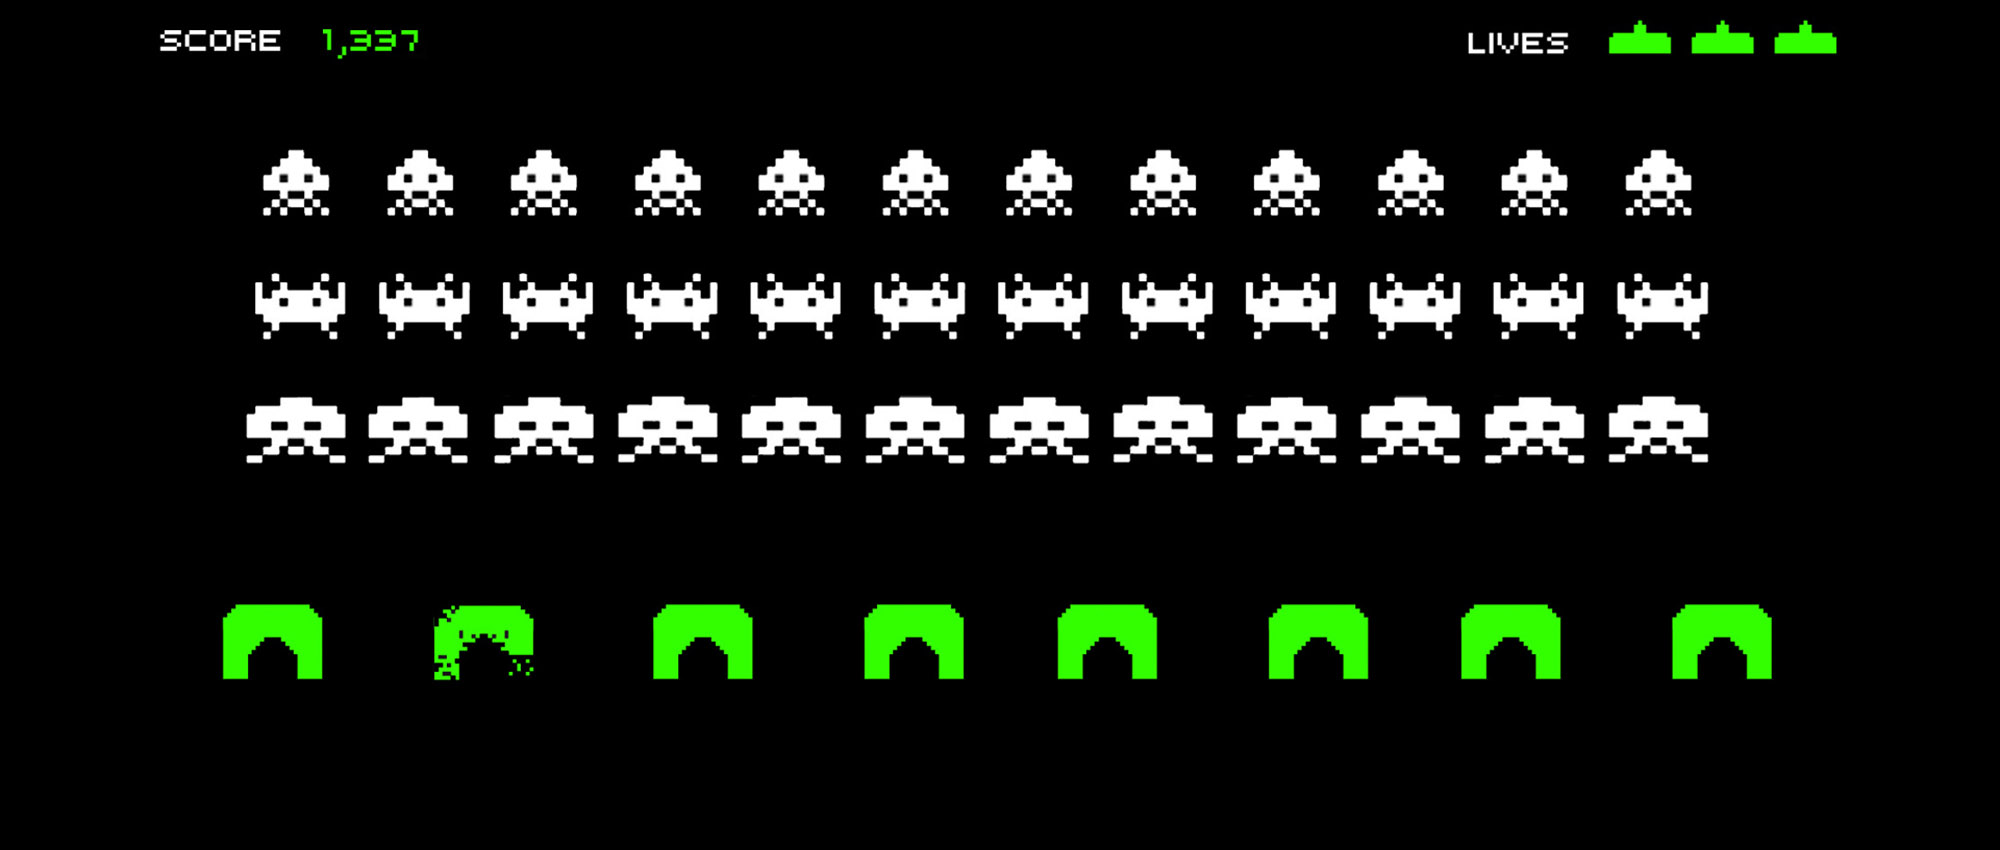
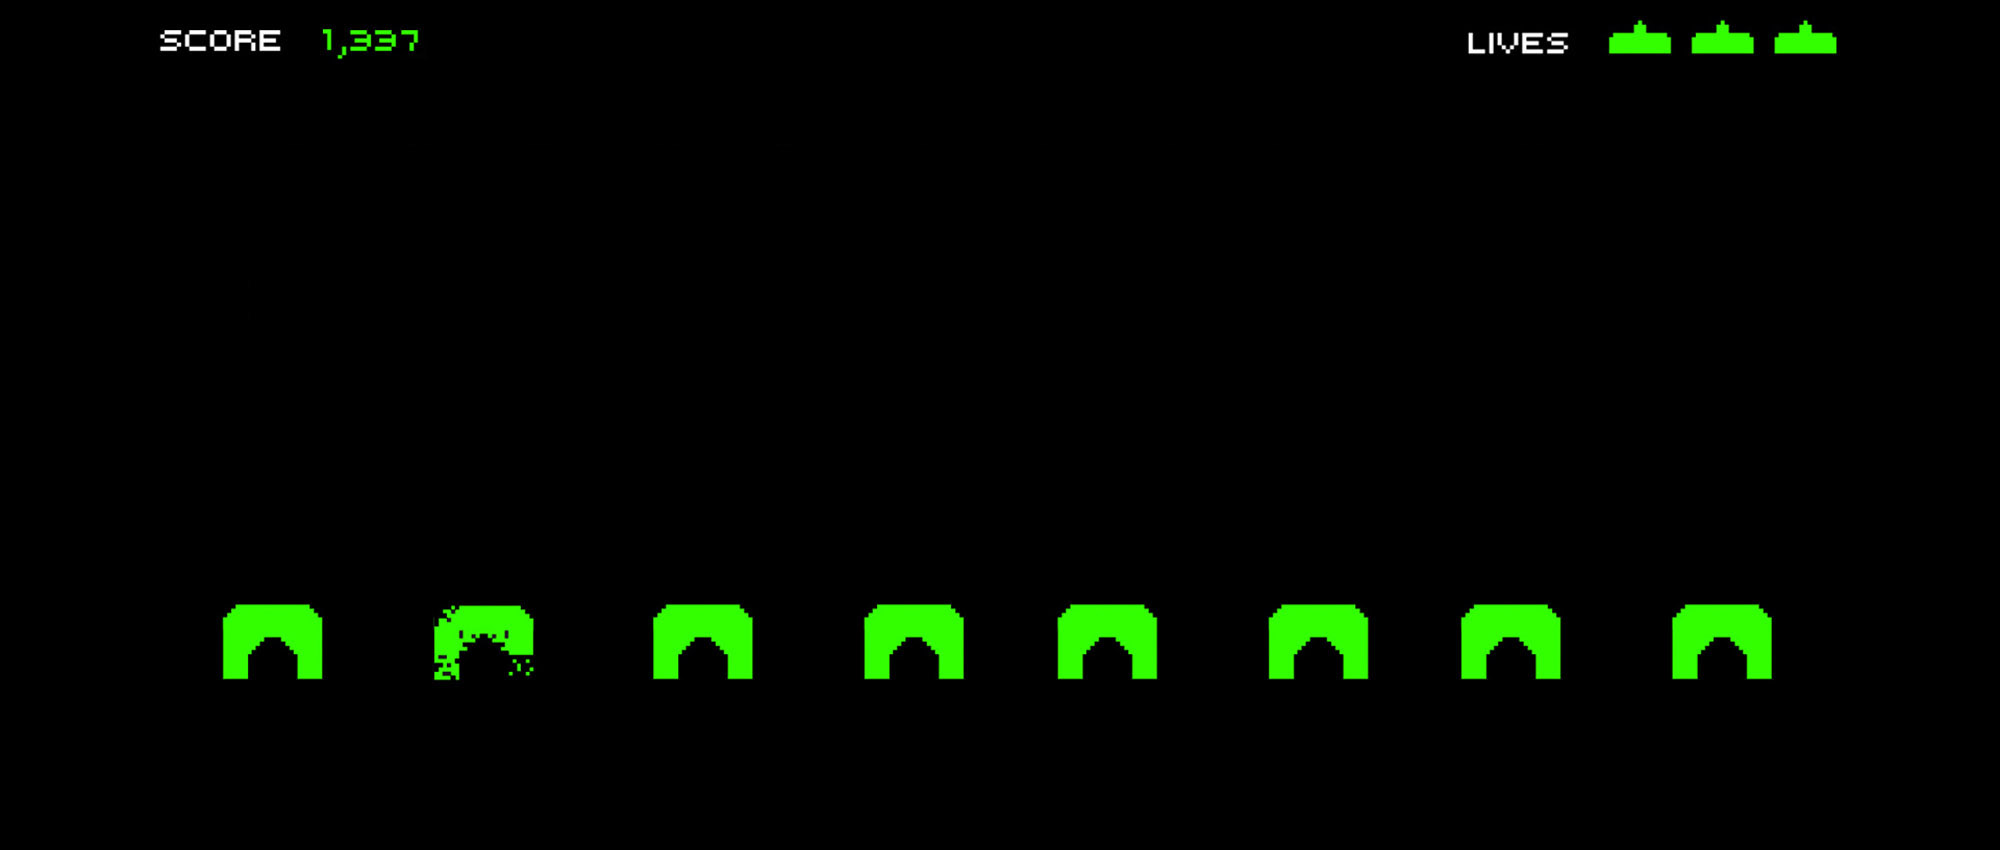
SPACE INVADING!

Changed region(s): [[0.124, 0.4588, 0.868, 0.5506], [0.124, 0.1835, 0.868, 0.2753], [0.124, 0.3365, 0.868, 0.3976]]

diff --git a/style/style.css b/style/style.css
@@ -162,6 +162,7 @@ h5 {
   background-size: auto;
   margin: 0;
   padding: 15px 0;
+  overflow: hidden;
 }
 
 .motherShip {
@@ -171,7 +172,7 @@ h5 {
   height: 70px;
   animation: movin 3s infinite;
   animation-direction: alternate;
-  animation-timing-function: ease-in-out
+  animation-timing-function: ease-in-out;
 }
 
 @keyframes movin {
@@ -179,8 +180,59 @@ h5 {
     to {left: 1500px;}
 }
 
+.invaderLine1 {
+  top: 55px;
+  left: 100px;
+  padding: 0;
+  position: relative;
+  width: 1448px;
+  height: 90px;
+  animation: movinLine1 2s infinite;
+  animation-direction: alternate;
+  animation-timing-function: steps(5)
+}
+
+@keyframes movinLine1 {
+    from {left: 120px;}
+    to {left: 320px;}
+}
+
+.invaderLine2 {
+  top: 90px;
+  left: 100px;
+  padding: 0;
+  position: relative;
+  width: 1448px;
+  height: 90px;
+  animation: movinLine2 2s infinite;
+  animation-direction: alternate-reverse;
+  animation-timing-function: steps(5)
+}
+
+@keyframes movinLine2 {
+    from {left: 120px;}
+    to {left: 320px;}
+}
+
+.invaderLine3 {
+  top: 120px;
+  left: 100px;
+  padding: 0;
+  position: relative;
+  width: 1448px;
+  height: 90px;
+  animation: movinLine3 2s infinite;
+  animation-direction: alternate;
+  animation-timing-function: steps(5)
+}
+
+@keyframes movinLine3 {
+    from {left: 120px;}
+    to {left: 320px;}
+}
+
 .spaceShip {
-  top: 640px;
+  top: 375px;
   left: 50px;
   padding: 0;
   position: relative;
@@ -188,7 +240,7 @@ h5 {
   height: 80px;
   animation: movinOwn 3s infinite;
   animation-direction: alternate-reverse;
-  animation-timing-function: ease-in-out
+  animation-timing-function: ease-in-out;
 }
 
 @keyframes movinOwn {

diff --git a/index.html b/index.html
@@ -31,6 +31,15 @@
   <div class="motherShip">
   <img src="style/picz/spaceinvaders/mothership.png"/>
   </div>
+  <div class="invaderLine1">
+  <img src="style/picz/spaceinvaders/invaderline1.png"/>
+  </div>
+  <div class="invaderLine2">
+  <img src="style/picz/spaceinvaders/invaderline2.png"/>
+  </div>
+  <div class="invaderLine3">
+  <img src="style/picz/spaceinvaders/invaderline3.png"/>
+  </div>
   <div class="spaceShip">
   <img src="style/picz/spaceinvaders/spaceship.png"/>
   </div>
